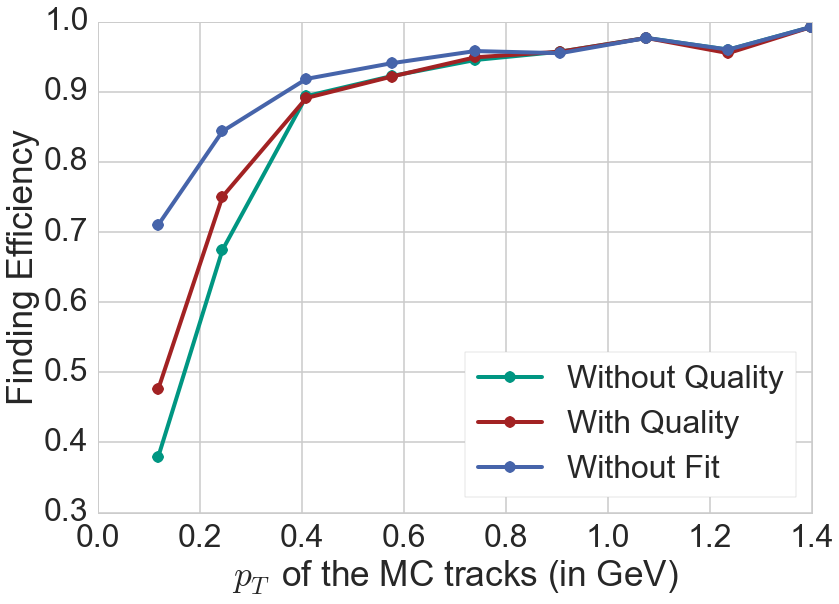
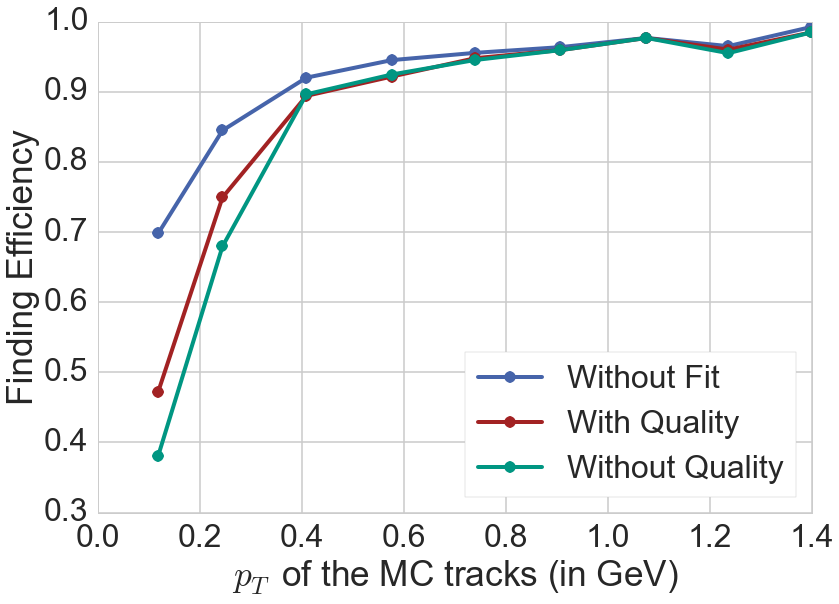
Finished own corrections

diff --git a/tex/workflow.tex b/tex/workflow.tex
@@ -346,11 +346,9 @@ The hit efficiency of the approach using segments can possibly be increased by u
 
 In the following, the stereo hit finder using reconstructed hits in the quad tree is used because of its higher hit and finding efficiency.
 
-% FINAL UP TO HERE
-
 \section{The \texttt{SegmentTrackCombinerDevModule}} \label{section-combiner}
 
-To increase the hit efficiency, the segments found by the local track finder and the tracks from the global track finder can be combined. This unifies the benefits of both track finder as the local track finder itself can not handle the combination of whole tracks well whereas the global track finder easily looses some hits of a track -- especially for secondary particles. Merging the two track finders has also another benefit: if all possible segments and tracks combinations are made, the remaining segments can be used to form new tracks and can help to fill the phasespace gaps of the Legendre track finder. Lastly, tracks without any matching segments are most likely fake tracks and can be deleted. \todo{do both last points!}
+To increase the hit efficiency, the segments found by the local track finder and the tracks from the global track finder can be combined. This unifies the benefits of both track finder as the local track finder itself can not handle the combination of whole tracks well whereas the global track finder easily looses some hits of a track -- especially for secondary particles. Merging the two track finders has also another benefit: if all possible segments and tracks combinations are made, the remaining segments can be used to form new tracks and can help to fill the phasespace gaps of the Legendre track finder. Lastly, tracks without any matching segments are most likely fake tracks and can be deleted. \todo{do the last point!}
 
 \subsection{Principle of the Segment Track Combiner}
 
@@ -368,7 +366,7 @@ The matching procedure between tracks and segments is a multi-step process inclu
 The steps (\ref{list-start}) - (\ref{list-end}) include one or more filters which consist mostly of a trained BDT as the one described for the background hit finder. Some of the steps are described in the following in more detail.
 
 \paragraph{First Matching (step \ref{list-start})}
-This filter is probably the simplest but best one in the combiner module. It combines every track with every segment sharing at least one hit (but not all hits of the segment, as these are trivial matches) and evaluates the pair with a trained BDT. This BDT uses variables describing the quality of the match, e.g.\ the distance between the hits or the trajectories of the segment and the track or a common fit. If the output value of the BDT is above a certain user-defined cut, the combination is kept. If there is only a single possible combination for a segment in a given superlayer, the hits of the segment are added to the matching track. If there are more than one possibility, only the one with the highest BDT output is used. The shared hits of the segment with all other tracks are removed from the tracks. Figure~\ref{fig-first-filter-count} shows the number of correct and wrong combinations passing the BDT for different cuts on its output. It can be seen, that the number of correct matches is higher than the number of wrong matches without the BDT cut already. The reason is the condition to share at most one hit which filters out many of the wrong combinations (but also some correct ones). Figure~\ref{fig-first-filter-fom} shows the influence of the filter to the the figures of merit, when applying only this  filter in the end of the full path of modules described in section~\ref{section-fom} (but without the track quality modules). As expected, the hit efficiency is highly dependent on the cut value. As a cut value of one corresponds to no added segment, the figures of merit for this cut correspond to the ones without the \texttt{SegmentTrackCombinerDevModule}. The hit efficiency can be increased by adding correct segments (cut values in the region 0.2 -- 0.8), but drops if too many wrong segments are added (0 -- 0.2). The fake rate and therefore the finding efficiency behave similarly. Finally, figure~\ref{fig-first-filter-fom} shows also the averaged number of wrong hits per track as a function of the BDT cut. It shows the same behavior as seen before as the number of wrong hits decreases with tighter cut values. In the following, a cut value of 0.75 is used which is a good trade-off between low clone rate and high hit efficiency.
+This filter is probably the simplest but best one in the combiner module. It combines every track with every segment sharing at least one hit (but not all hits of the segment, as these are trivial matches) and evaluates the pair with a trained BDT. This BDT uses variables describing the quality of the match, e.g.\ the distance between the hits or the trajectories of the segment and the track or a common fit. If the output value of the BDT is above a certain user-defined cut, the combination is kept. If there is only a single possible combination for a segment in a given superlayer, the hits of the segment are added to the matching track. If there are more than one possibility, only the one with the highest BDT output is used. The shared hits of the segment with all other tracks are removed from the tracks. Figure~\ref{fig-first-filter-count} shows the number of correct and wrong combinations passing the BDT for different cuts on its output. It can be seen, that the number of correct matches is higher than the number of wrong matches without the BDT cut already. The reason is the condition to share at most one hit which filters out many of the wrong combinations (but also some correct ones). Figure~\ref{fig-first-filter-fom} shows the influence of the filter to the the figures of merit, when applying only this  filter in the end of the full path of modules described in section~\ref{section-fom} (but without the track quality modules). As expected, the hit efficiency is highly dependent on the cut value. As a cut value of one corresponds to no added segment, the figures of merit for this cut correspond to the ones without the \texttt{SegmentTrackCombinerDevModule}. The hit efficiency can be increased by adding correct segments (cut values in the region 0.2 -- 0.8), but drops if too many wrong segments are added (0 -- 0.2). The fake rate and therefore the finding efficiency behave similarly. Finally, figure~\ref{fig-first-filter-fom} shows also the averaged number of wrong hits per track as a function of the BDT cut. It shows the same behavior as seen before as the number of wrong hits decreases with tighter cut values. In the following, a cut value of 0.75 is used which is a good trade-off between low clone and fake rate and high hit efficiency.
 
 \begin{figure}
   \centering
@@ -376,7 +374,7 @@ This filter is probably the simplest but best one in the combiner module. It com
   \caption{Number of correct and wrong segment--track-combinations passing the BDT filter. As the pre-cut of at least one shared hit throws away much of the wrong combinations, the number of correct ones is larger from the start on.}
   \label{fig-first-filter-count}
   % Not comparable
-  % TODO
+  % Final
 \end{figure}
 
 \begin{figure}
@@ -386,7 +384,8 @@ This filter is probably the simplest but best one in the combiner module. It com
   \includegraphics[width=0.48\linewidth]{figures/workflow/first_filter_wrong_hits.png}
   \caption{Figures if merit for different cut values on the BDT output of the first filter in the \texttt{SegmentTrackCombinerDevModule} with all other filters deactivated.}
   \label{fig-first-filter-fom}
-  % TODO
+  % On Input Data 2
+  % Final
 \end{figure}
 
 
@@ -394,7 +393,8 @@ This filter is probably the simplest but best one in the combiner module. It com
 % The still remaining segment could either not be matched by the first matching procedure or do not share a hit with one of the tracks coming from the Legendre track finder. For these segments, an advanced matching routine is applied which starts by filtering out fake segments with a BDT using similar variables as the background hit finder. In the next step, the remaining segments are combined with the tracks. Beforehand, another filtering algorithm tries to combine the segments in one superlayer to larger segments, as the segment finder algorithm has problems with large segment especially in stereo layers. Both filters use typical segment properties like $p_T$ or the number of hits as well as high-level variables like the p-Value of a circular fit or distances between the segments or to the tracks. The filters however show a very bad performance and can not increase the hit efficiency without reducing the finding efficiency because a high number of fakes is produced. Therefore, these filters are not used in the following. \todo{???}
 
 \paragraph{Filtering of the tracks (step \ref{list-end})}
-To reduce the fake rate further before giving the tracks to the track fitter and the physics analysis packages, a trained BDT can filter out tracks that are most likely to be fakes. The BDT is trained using the fake flag output of the MC matching routine as the truth information. To classify whether a track is a fake, it uses several input variables compiled from the tracks trajectory and hit content as $p_T$ and $\tan \lambda$ or the first two moments of the drift length or ADC count distributions among the hits. It also calculates a value to measure how ``empty'' the track is, i.e.\ how many hits are probably missing as a track with more missing hits is typically a fake. Figure~\ref{fig-track-filter-count} shows the output of the trained BDT. As it can be seen, the performance of the filter looks comparable to the other trained filters in this thesis. In this case however, every wrongly classified and deleted signal track reduces the finding efficiency directly. Figure~\ref{fig-track-filter-results} shows the figures of merit as a function of the BDT cut value on this filter only and confirms this conclusion as it has a high impact on the finding efficiency which makes it unusable for the normal track finding path. However, in situation where a very low fake rate and a high purity is necessary, this filter can be used.
+To reduce the fake rate further before giving the tracks to the track fitter and the physics analysis packages, a trained BDT can filter out tracks that are most likely to be fakes. The BDT is trained using the fake flag output of the MC matching routine as the truth information. To classify whether a track is a fake, it uses several input variables compiled from the tracks trajectory and hit content as $p_T$ and $\tan \lambda$, a flag whether a segment could be matched to the track or the first two moments of the drift length or ADC count distributions among the hits. It also calculates a value to measure how ``empty'' the track is, i.e.\ how many hits are probably missing as a track with more missing hits is typically a fake. Figure~\ref{fig-track-filter-count} shows the output of the trained BDT. As it can be seen, the performance of the filter looks comparable to the other trained filters in this thesis. In this case however, every wrongly classified and deleted signal track reduces the finding efficiency directly. Figure~\ref{fig-track-filter-results} shows the figures of merit as a function of the BDT cut value on this filter only and confirms this conclusion as it has a high impact on the finding efficiency -- but also on the fake and the clone rate.
+Higher cut values are unusable for the normal track finding path as the finding efficiency is reduced too much, however they can be used in situation where a very low fake rate and a high purity is necessary. In the following, a cut value of 0.1 is used.
 
 \begin{figure}
   \centering
@@ -402,7 +402,8 @@ To reduce the fake rate further before giving the tracks to the track fitter and
   \caption{Output of the track filter in the \texttt{SegmentTrackCombinerDevModule} in the last step which should separate fakes and signal tracks. The number of wrong tracks can be reduced with the BDT, however also the number of correct tracks is affected strongly.}
   \label{fig-track-filter-count}
   % Not comparable
-  % TODO
+  % On Input Data 2
+  % Final
 \end{figure}
 
 \begin{figure}
@@ -410,9 +411,10 @@ To reduce the fake rate further before giving the tracks to the track fitter and
   \includegraphics[width=0.48\linewidth]{figures/workflow/track_filter_rate.png}
   \includegraphics[width=0.48\linewidth]{figures/workflow/track_filter_efficiency.png}
   \includegraphics[width=0.48\linewidth]{figures/workflow/track_filter_wrong_hits.png}
-  \caption{Results after the track filter in the \texttt{SegmentTrackCombinerDevModule}. As discussed in the text, the filter has a huge impact on the finding efficiency as well as the fake rate and is therefore not used in production. However, special demands for high-purity tracks may need such a filter in the future.}
+  \caption{Results after the track filter in the \texttt{SegmentTrackCombinerDevModule}. As discussed in the text, the filter has a huge impact on the finding efficiency as well as the fake rate. Special demands for high-purity tracks may need higher cut values of such a filter in the future, while in the normal path only a small cut value is used.}
   \label{fig-track-filter-results}
-  % TODO
+  % On Input Data 2
+  % Final
 \end{figure}
 
 \subsection{Results}
@@ -422,21 +424,21 @@ Table~\ref{tab-segment-track-combiner-fom} shows the figures of merit of the Leg
 \begin{table}
   \caption{Table showing the figures of merit before and after the combination of Legendre track candidates with segments from the local track finder.}
   \centering
-  \begin{tabular}{lcccc} \toprule
-    & Legendre & Combination & Trasan \\ \midrule
-    Finding Efficiency   & 85.98 & 86.28 & 85.53 \\
-    \quad on Primaries   & 92.14 & 92.11 & 91.49 \\ 
-    Hit Efficiency       & 83.41 & 85.91 & 81.93 \\
-    \quad on Primaries   & 90.20 & 91.56 & 87.25 \\ 
-    Clone Rate           & 15.42 & 14.83 & 19.50 \\
-    \quad on Primaries   & 7.29  & 7.68  & 17.17 \\ 
-    Fake Rate            & 17.76 & 18.27 & 15.95 \\ 
-    Wrong Hits per Track & 2.10  & 2.28  & 1.09 \\ \bottomrule
+  \begin{tabular}{lccccc} \toprule
+    & Legendre & Combination & Trasan & Old Implementation \\ \midrule
+    Finding Efficiency   & 86.28 & 86.17 & 85.53 & 83.17 \\
+    \quad on Primaries   & 92.32 & 92.19 & 91.49 & 89.94 \\ 
+    Hit Efficiency       & 83.23 & 84.81 & 81.93 & 74.03 \\
+    \quad on Primaries   & 88.96 & 90.60 & 87.25 & 78.22 \\ 
+    Clone Rate           & 14.33 & 13.59 & 19.50 & 7.69 \\
+    \quad on Primaries   & 7.63  & 7.02  & 17.17 & 4.71 \\ 
+    Fake Rate            & 18.60 & 13.77 & 15.95 & 26.82 \\ 
+    Wrong Hits per Track & 2.10  & 2.07  & 1.09  & 2.69 \\ 
+    Time per Event in ms & 36.54 & 39.42 & 419.50& 635.05 \\ \bottomrule
   \end{tabular}
   \label{tab-segment-track-combiner-fom}
   % On InputData 2
-  % TODO
-  % Trasan Final
+  % Final
 \end{table}
 
 \section{The \texttt{Track\-Quality\-Asserter\-CDC\-Module} and the \texttt{Track\-Quality\-Tools}}  \label{section-quality}
@@ -455,20 +457,19 @@ When only taking into account fitted tracks, the finding efficiency could be inc
   \begin{tabular}{lcccccc} \toprule
     & \multicolumn{3}{c}{Before Fitting} & \multicolumn{3}{c}{After Fitting} \\ 
     & No Quality & Quality & Trasan & No Quality & Quality & Trasan \\ \midrule
-    Finding Efficiency   & 87.22 & 86.27 & 85.53 & 73.89  & 78.05 & 82.30 \\
-    \quad on Primaries   & 92.65 & 91.91 & 91.49 & 82.74  & 86.74 & 89.83 \\ 
-    Hit Efficiency       & 85.11 & 83.17 & 81.93 & 85.69  & 84.61 & 82.71 \\
-    \quad on Primaries   & 91.07 & 89.31 & 87.25 & 90.54  & 89.48 & 87.30 \\ 
-    Clone Rate           & 19.50 & 14.06 & 19.50 & 3.92   & 4.30  & 14.56 \\
-    \quad on Primaries   & 17.17 & 5.85  & 17.17 & 2.59   & 2.68  & 12.75 \\ 
-    Fake Rate            & 17.22 & 9.22  & 15.95 & 3.57   & 2.96  & 3.44 \\ 
-    Wrong Hits per Track & 2.25  & 1.83  & 1.09  & 1.91   & 1.62  & 0.91 \\
-    Time per Event in ms & 52.91 & 53.34 & 419.50& 1656.41& 722.30& 844.14 \\ \bottomrule
+    Finding Efficiency   & 86.17 & 85.16 & 85.53 & 73.75 & 77.69 & 82.30 \\
+    \quad on Primaries   & 92.19 & 91.24 & 91.49 & 82.40 & 86.44 & 89.83 \\ 
+    Hit Efficiency       & 84.81 & 83.30 & 81.93 & 85.57 & 84.69 & 82.71 \\
+    \quad on Primaries   & 90.60 & 89.11 & 87.25 & 90.45 & 89.32 & 87.30 \\ 
+    Clone Rate           & 13.59 & 11.60 & 19.50 & 3.67  & 3.77  & 14.56 \\
+    \quad on Primaries   & 7.02  & 5.45  & 17.17 & 2.70  & 2.83  & 12.75 \\ 
+    Fake Rate            & 13.77 & 8.02  & 15.95 & 3.48  & 2.74  & 3.44 \\ 
+    Wrong Hits per Track & 2.07  & 1.70  & 1.09  & 1.75  & 1.47  & 0.91 \\
+    Time per Event in ms & 39.42 & 42.53 & 419.50& 1079.37 & 668.15 & 571.23 \\ \bottomrule
   \end{tabular}  
   \label{tab-results-after-fitting}
   % On InputData 2
-  % Trasan before fit Final
-  % TODO
+  % Final
 \end{table}
 
 \begin{figure}
@@ -476,6 +477,8 @@ When only taking into account fitted tracks, the finding efficiency could be inc
   \includegraphics[width=0.7\linewidth]{figures/workflow/efficiency_after_fit.png}
   \caption{Finding efficiency over $p_T$ for the full path with and without the quality corrections applied after removing all not-fitted tracks. For comparison, also the efficiency before the fit and without the quality tools is shown in blue.}
   \label{fig-efficiency-after-fitting}
+  % On InputData 2
+  % Final
 \end{figure}
 
 
@@ -641,14 +644,14 @@ All resulting tracks from the module can be classified unambiguously into one of
     BDT cut &  Total &         Case 1 &       Case 2 &       Case 3 &       Case 4 &         Case 5 \\
     \midrule
 	0.0 &   9345 &  7361 (78.8 \%) &  643 (6.9 \%) &  215 (2.3 \%) &  327 (3.5 \%) &    799 (8.6 \%) \\
-	0.1 &  10698 &  7712 (72.1 \%) &  298 (2.8 \%) &  612 (5.7 \%) &  390 (3.6 \%) &  1686 (15.8 \%) \\
-	0.2 &  10855 &  7725 (71.2 \%) &  251 (2.3 \%) &  654 (6.0 \%) &  406 (3.7 \%) &  1819 (16.8 \%) \\
+% 	0.1 &  10698 &  7712 (72.1 \%) &  298 (2.8 \%) &  612 (5.7 \%) &  390 (3.6 \%) &  1686 (15.8 \%) \\
+% 	0.2 &  10855 &  7725 (71.2 \%) &  251 (2.3 \%) &  654 (6.0 \%) &  406 (3.7 \%) &  1819 (16.8 \%) \\
 	0.3 &  10961 &  7723 (70.5 \%) &  227 (2.1 \%) &  698 (6.4 \%) &  417 (3.8 \%) &  1896 (17.3 \%) \\
-	0.4 &  11041 &  7711 (69.8 \%) &  201 (1.8 \%) &  720 (6.5 \%) &  424 (3.8 \%) &  1985 (18.0 \%) \\
-	0.5 &  11123 &  7708 (69.3 \%) &  176 (1.6 \%) &  748 (6.7 \%) &  427 (3.8 \%) &  2064 (18.6 \%) \\
+% 	0.4 &  11041 &  7711 (69.8 \%) &  201 (1.8 \%) &  720 (6.5 \%) &  424 (3.8 \%) &  1985 (18.0 \%) \\
+% 	0.5 &  11123 &  7708 (69.3 \%) &  176 (1.6 \%) &  748 (6.7 \%) &  427 (3.8 \%) &  2064 (18.6 \%) \\
 	0.6 &  11211 &  7696 (68.6 \%) &  157 (1.4 \%) &  775 (6.9 \%) &  431 (3.8 \%) &  2152 (19.2 \%) \\
-	0.7 &  11304 &  7672 (67.9 \%) &  143 (1.3 \%) &  797 (7.1 \%) &  436 (3.9 \%) &  2256 (20.0 \%) \\
-	0.8 &  11452 &  7617 (66.5 \%) &  109 (1.0 \%) &  848 (7.4 \%) &  449 (3.9 \%) &  2429 (21.2 \%) \\
+% 	0.7 &  11304 &  7672 (67.9 \%) &  143 (1.3 \%) &  797 (7.1 \%) &  436 (3.9 \%) &  2256 (20.0 \%) \\
+% 	0.8 &  11452 &  7617 (66.5 \%) &  109 (1.0 \%) &  848 (7.4 \%) &  449 (3.9 \%) &  2429 (21.2 \%) \\
 	0.9 &  11721 &  7490 (63.9 \%) &   68 (0.6 \%) &  921 (7.9 \%) &  460 (3.9 \%) &  2782 (23.7 \%) \\
     \bottomrule
   \end{tabular}
